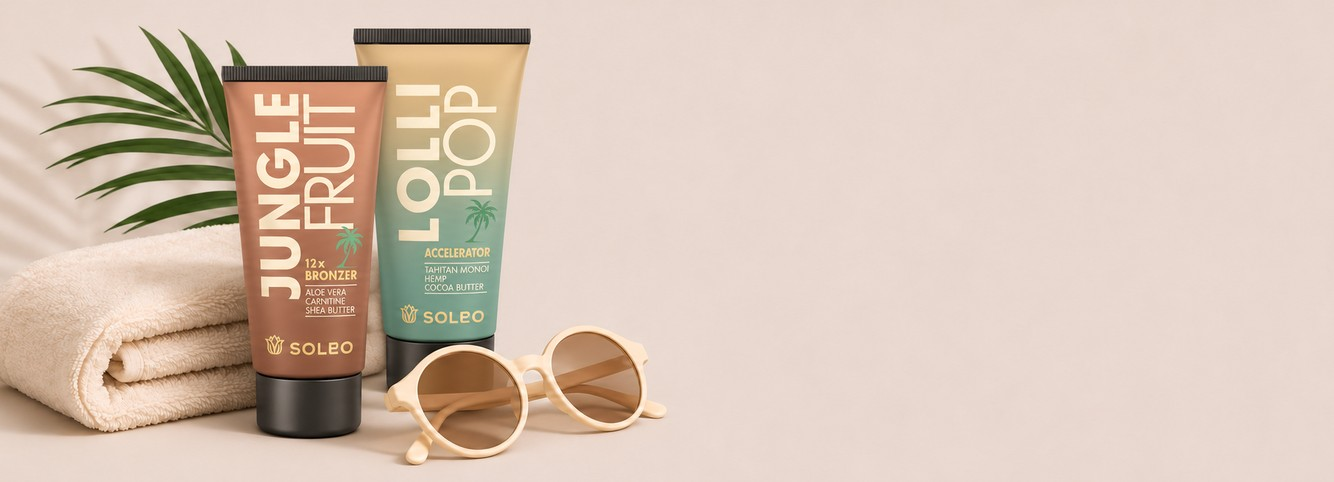
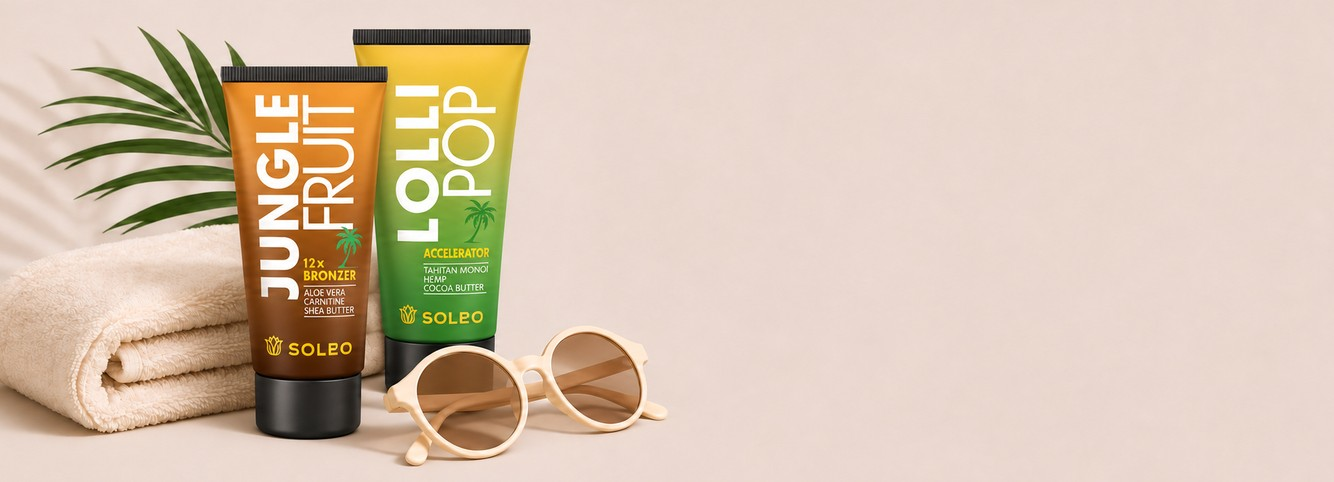
Home: hover zoom from the products' centre; tan tubes halfway back to original colours

diff --git a/styles.css b/styles.css
@@ -1923,6 +1923,9 @@ body.igro[data-page="home"] .ig-footer { margin-top: 76px; }
 /* картинка – отдельным слоем, чтобы при наведении слегка увеличиваться, как в плашках и квадратах (04.11) */
 .ig-cat::before { content: ""; position: absolute; inset: 0; background: var(--cat-img) center / cover no-repeat; transition: transform var(--duration-base) var(--ease-standard); }
 .ig-cat > * { position: relative; }
+/* увеличение – от центра предметов, а не карточки: предметы стоят справа (текст слева) или слева (ig-cat--end), иначе картинка «уезжает» в сторону */
+.ig-cat::before { transform-origin: 74% 58%; }
+.ig-cat--end::before { transform-origin: 26% 58%; }
 @media (hover: hover) { .ig-cat:hover::before { transform: scale(1.05); } }
 .ig-cat--end { justify-content: flex-end; text-align: right; }
 .ig-cat__body { display: flex; flex-direction: column; align-items: flex-start; max-width: 52%; padding: 28px 30px 24px; }
